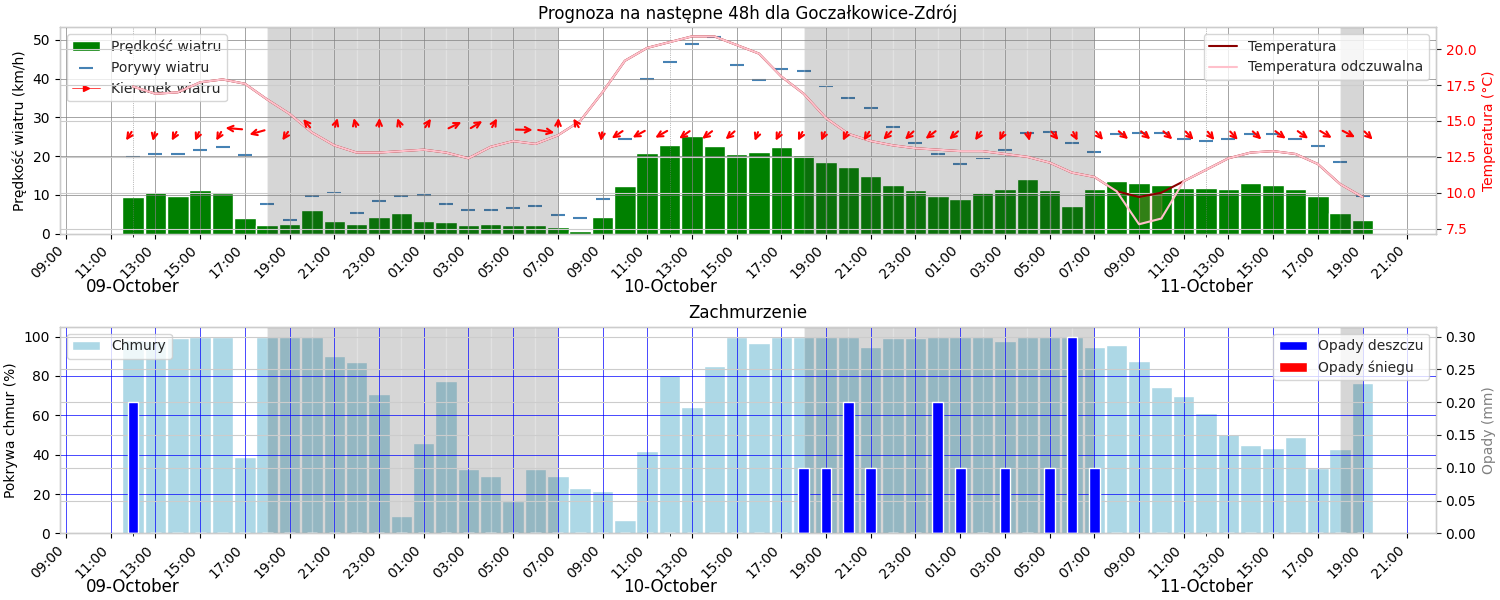
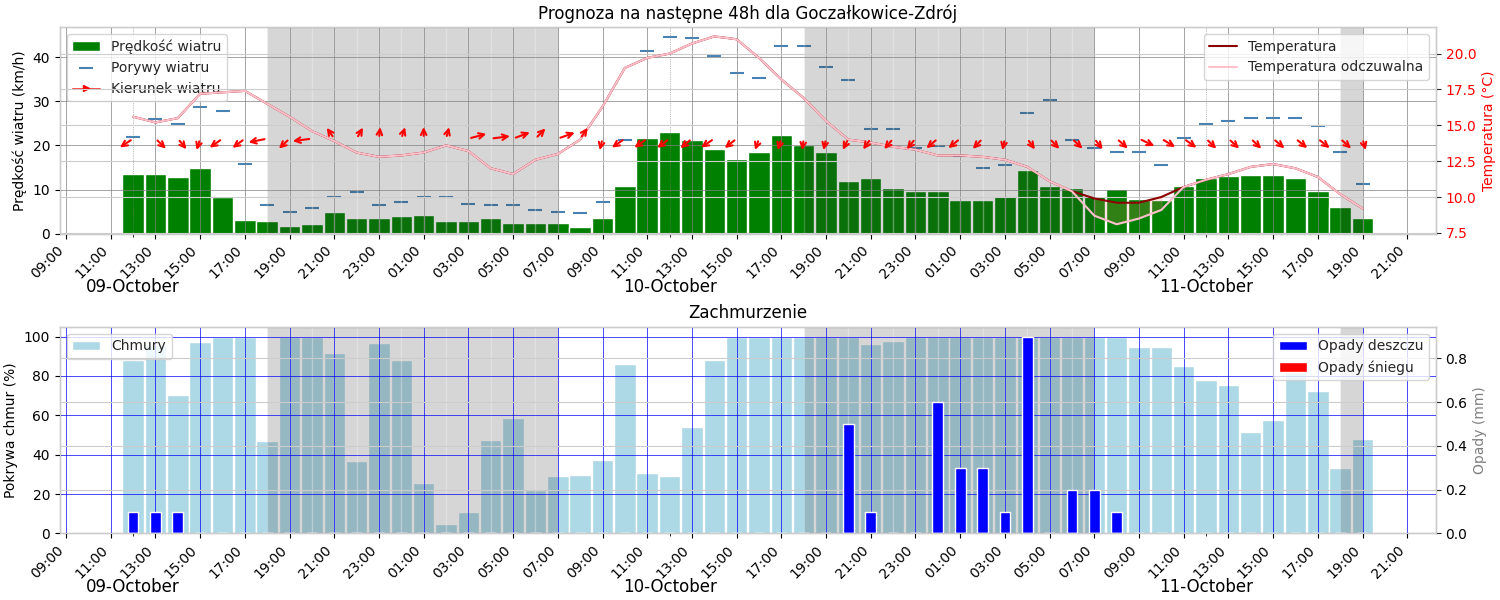
deploy: e627254f44bb472df94ed56ca0325a8a26f59905

diff --git a/index.html b/index.html
@@ -10,7 +10,7 @@
 <body>
     <h1>Wykres Pogody dla Surferów</h1>
     <!-- Dodano znacznik czasowy (timestamp) do URL obrazka -->
-    <img src="weather_plot2.png?time=1728455630" alt="Wykres Pogody dla Surferów"> 
+    <img src="weather_plot2.png?time=1728477410" alt="Wykres Pogody dla Surferów"> 
     <canvas id="weatherChart" width="400" height="200"></canvas> <!-- Canvas dla wykresu -->
     <script src="script.js"></script> <!-- bez website/ -->
 </body>
